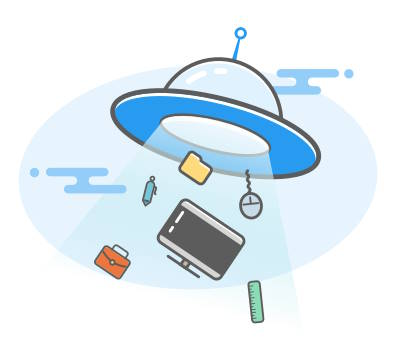
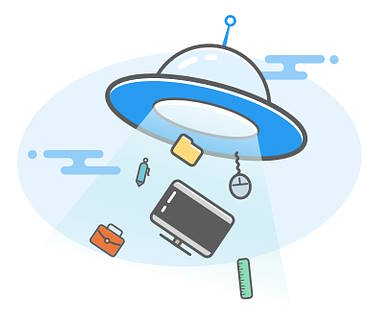
Style update

diff --git a/index.html b/index.html
@@ -3,17 +3,18 @@
 <head>
     <meta charset="UTF-8">
     <meta name="viewport" content="width=device-width, initial-scale=1.0">
+    <meta name="description" content="404 page for the website">
     <title>UFO</title>
 </head>
 
-<body style="background-color: white;">
-    <main style="background-color: pink; width: 60%; margin-left: 20%;margin-right: 20%; margin-top: 10%; display: inline-block;">
-        <div style="background-color: aqua; width: 35%; float: left;">
-            <h1 style="color: blue; font-size: 100px; font-family: Impact, Haettenschweiler, 'Arial Narrow Bold', sans-serif;">404</h1>
-            <p style="font-size: 50px; text-transform: uppercase; font-weight: normal; font-family: Impact, Haettenschweiler, 'Arial Narrow Bold', sans-serif;">page not found</p>
-            <a style="display: inline-block; text-decoration: none; border-radius: 25px; padding: 12px; padding-right: 30px; padding-left: 30px; font-size: 20px; border: 2px solid blue;" href="#">Go home</a>
+<body style="background-color: #fff;">
+    <main style="width: 60%; margin-left: 20%; margin-right: 20%; margin-top: 10%; display: inline-block;">
+        <div style="width: 40%; float: left; margin-top: 100px;">
+            <h1 style="color: rgb(40, 155, 240); font-size: 100px; font-family: Impact, Haettenschweiler, 'Arial Narrow Bold', sans-serif; margin: 0;">404</h1>
+            <p style="color: rgb(95, 95, 95); font-size: 40px; text-transform: uppercase; font-weight: normal; font-family: Impact, Haettenschweiler, 'Arial Narrow Bold', sans-serif; margin-top: 0;">page not found</p>
+            <a style="display: inline-block; text-decoration: none; border-radius: 50px; padding: 12px; padding-right: 30px; padding-left: 30px; font-size: 20px; border: 2px solid rgb(40, 155, 240); color: rgb(40, 155, 240);" href="#">Go home</a>
         </div>
-        <img style="background-color: antiquewhite; width: 60%; float: right;" src="./img/ufo.jpg" alt="Ateiviu lekste kuri vagia musu daiktus">
+        <img style="width: 60%; float: right;" src="./img/ufo.webp" alt="Ateiviu lekste kuri vagia musu daiktus">
     </main>
 </body>
 </html>
@@ -33,6 +34,6 @@ display: inline-block;  stengiasi buti vienoje eileje, jei netelpa krenta i nauj
 
 float: left;            priverstinai stumti elementa nurodyta kryptini iki atsirems i artimiausia elementa arba teva
 float: right;
-naudojant display su float - float automatiskai pritaiko lyg butu komanda daisplay: block! tad 'display' 
+naudojant display su float - float automatiskai pritaiko lyg butu komanda display: block! tad 'display' 
 nurodyti nebereikia! Taip pat, panaudojus float tevinis blokas praranda auksti, tad jame butina panaudoti 'display: inline-block'
 -->
